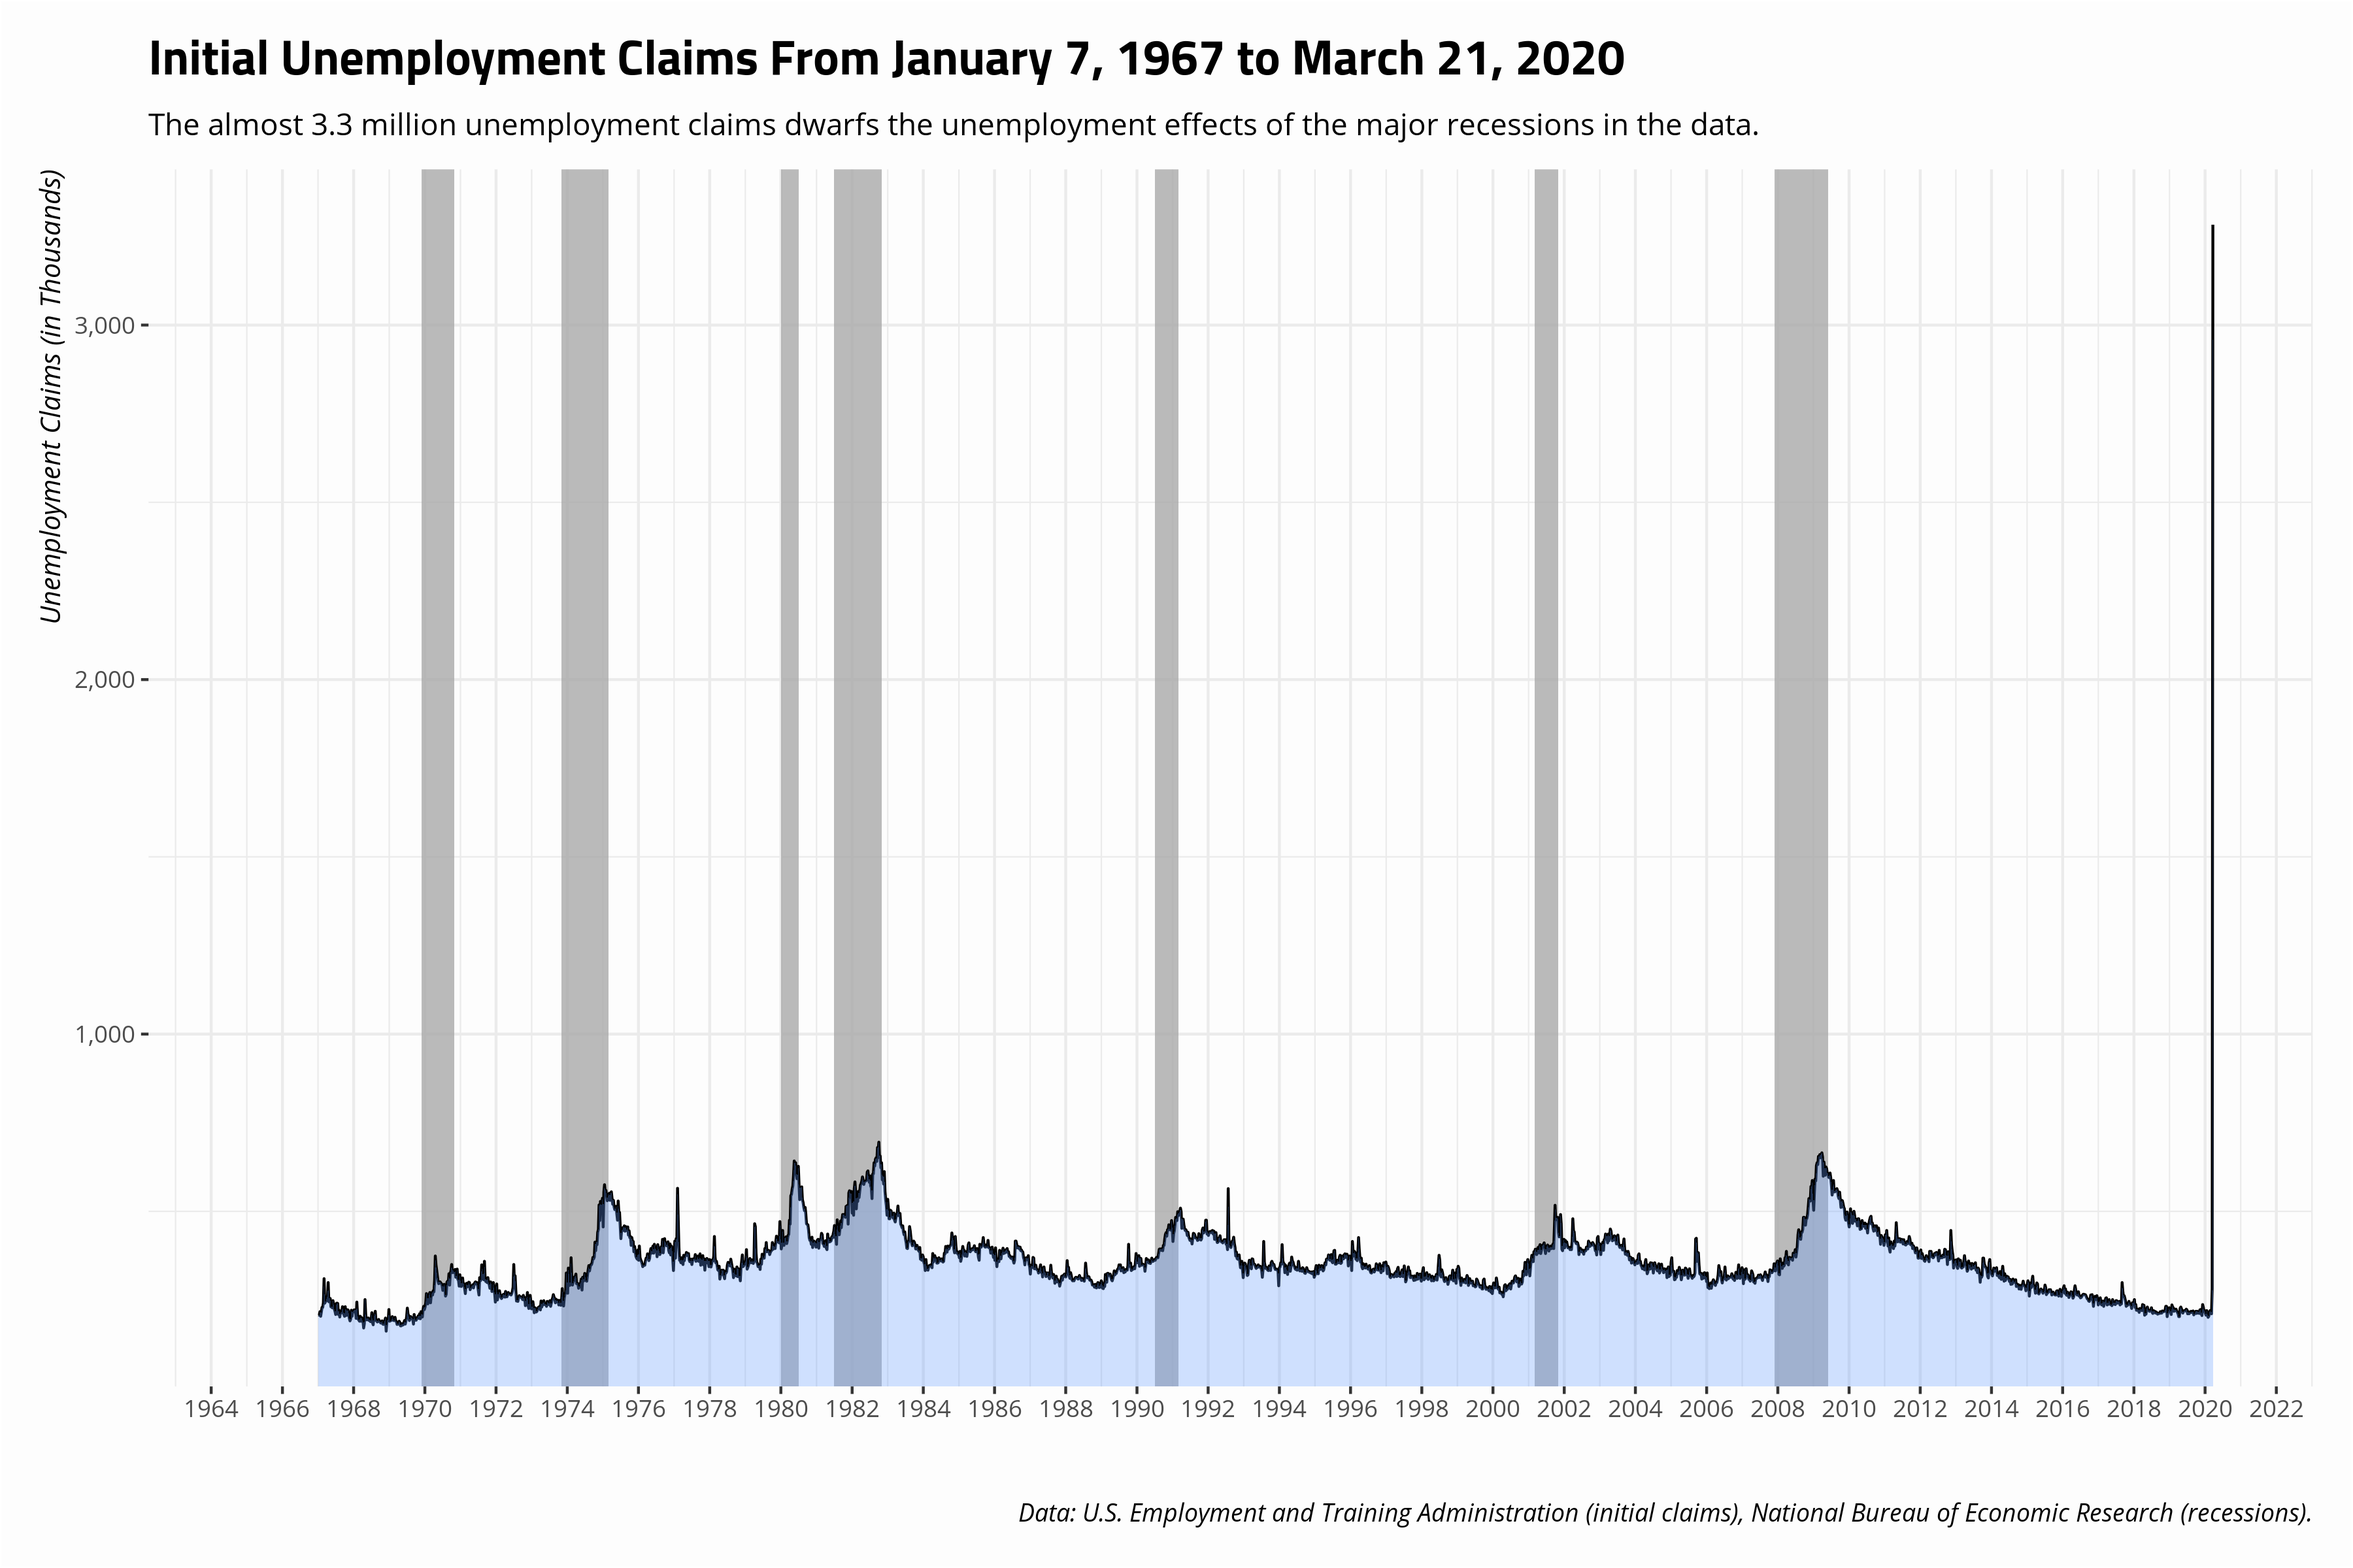
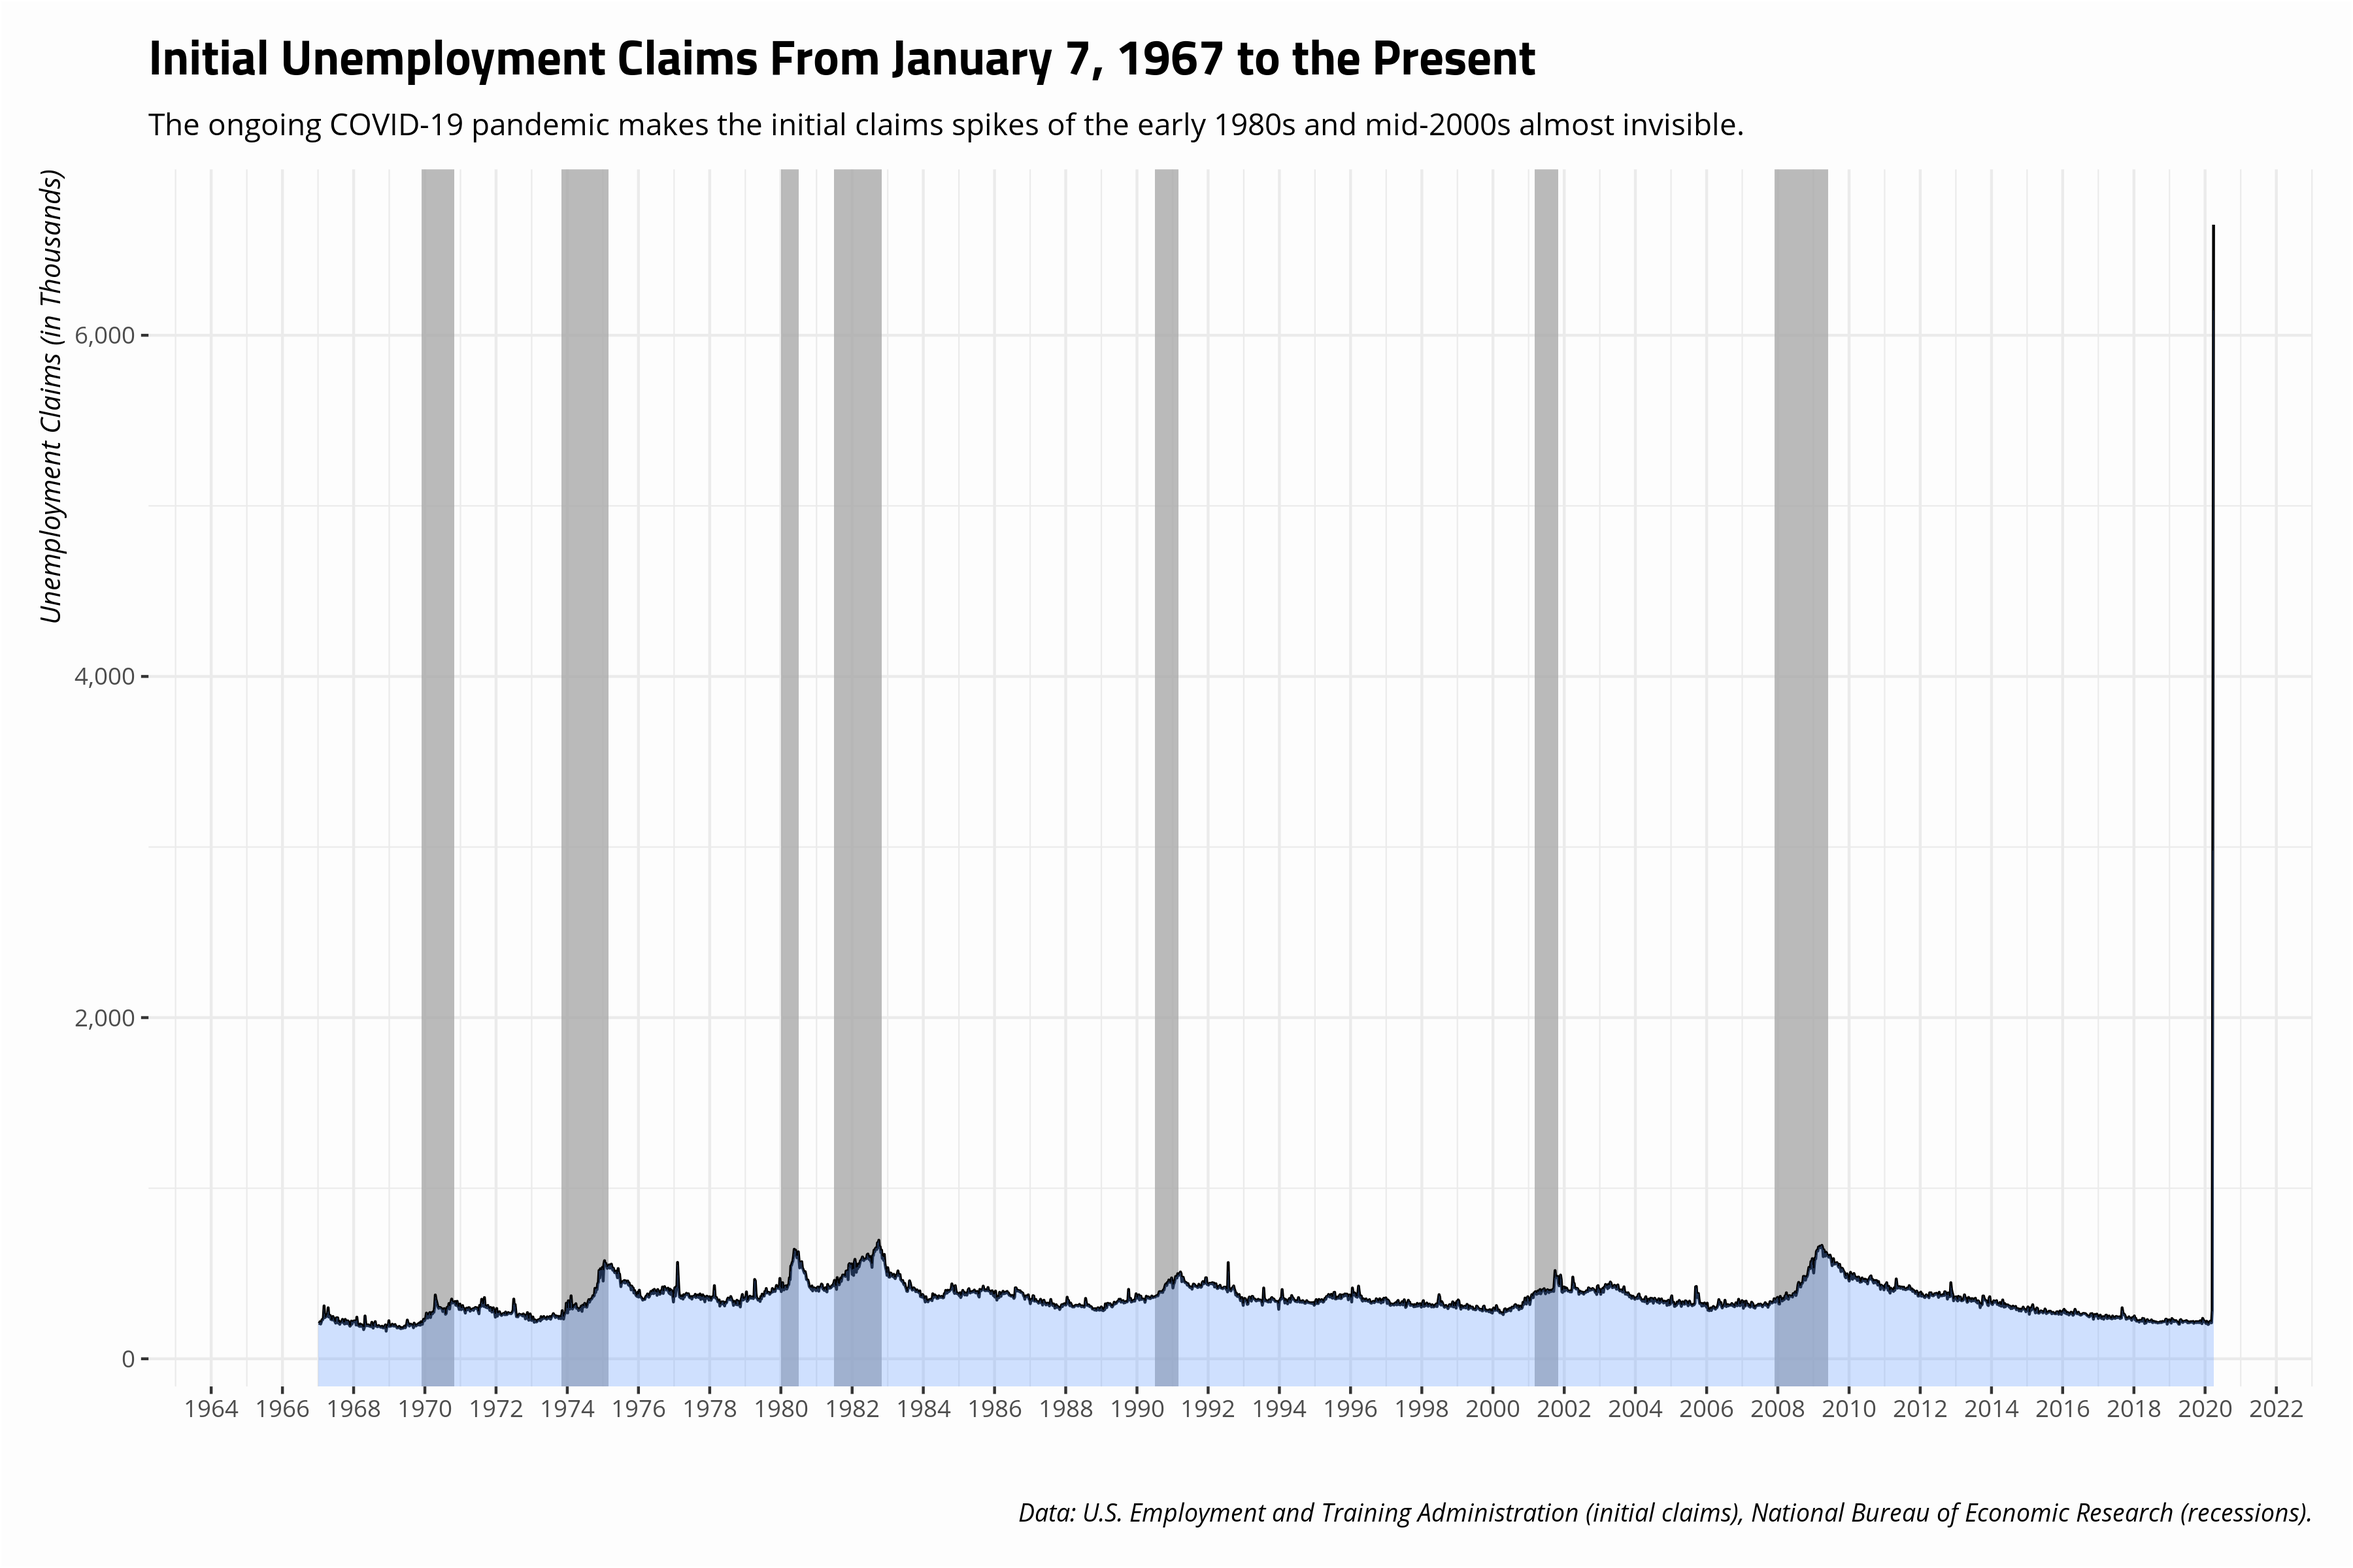
gulp

diff --git a/_posts/2020-03-26-the-covid19-initial-claims-spike-in-context-r.md b/_posts/2020-03-26-the-covid19-initial-claims-spike-in-context-r.md
@@ -19,6 +19,9 @@ image: "woman-mask-la-covid19.jpg"
 
 {% include image.html url="/images/woman-mask-la-covid19.jpg" caption="A woman walks wearing a mask to protect herself from the novel coronavirus (COVID-19) in front of a closed theater in Koreatown, Los Angeles, on March 21, 2020. (AFP, GETTY IMAGES)" width=400 align="right" %}
 
+
+*Last updated: April 02, 2020* 
+
 The U.S. Employment and Training Administration released its weekly update on initial unemployment claims, giving us the first glimpse of the economic implications of the COVID-19 pandemic beyond [the fluctuation we're observing in the stock market](http://svmiller.com/blog/2020/03/dow-jones-no-good-very-bad-day/). And... [yikes](https://www.cnn.com/2020/03/26/economy/unemployment-benefits-coronavirus/index.html).
 
 The data are grisly and some R code will illustrate that. First, here are the packages necessary to put this unemployment claims spike in context. `tidyverse` comes at the fore of my workflow. `stevemisc` is my toy R package, which incidentally has a data set on U.S. recessions (`recessions`) for added context. It should be no surprise that unemployment climbs during these periods. Finally, `fredr` interacts with the Federal Reserve Economic Data maintained by the research division of the Federal Reserve Bank of St. Louis. The API is the easiest and most flexible of any I've used and I wish the IMF's API were as simple. `lubridate` will help us play with dates.
@@ -42,7 +45,7 @@ Here's what the data looked like before today.
 
 ```r
 ICSA %>%
-  slice(-n()) %>%
+  filter(date <= ymd("2020-03-14")) %>%
   ggplot(.,aes(date, value/1000)) +
   theme_steve_web() + post_bg() +
   scale_x_date(date_breaks = "2 years",
@@ -68,7 +71,8 @@ Now, here's what the data look like as of today.
 
 ```r
 ICSA %>%
-#  slice(-n()) %>% # Commenting out just one line.
+  # change just one line
+  filter(date <= ymd("2020-03-21"))  %>% # Commenting out just one line.
   ggplot(.,aes(date, value/1000)) +
   theme_steve_web() + post_bg() +
   scale_x_date(date_breaks = "2 years",
@@ -86,7 +90,7 @@ ICSA %>%
        caption = "Data: U.S. Employment and Training Administration (initial claims), National Bureau of Economic Research (recessions).") 
 ```
 
-![plot of chunk initial-claims-data-1967-starting-with-covid19](/images/initial-claims-data-1967-starting-with-covid19-1.png)
+![plot of chunk initial-claims-data-1967-first-week-of-covid19](/images/initial-claims-data-1967-first-week-of-covid19-1.png)
 
 I'll come back and update this when the states roll out their updates, but it does have me thinking about this dire warning from the President of the Federal Reserve Bank of St. Louis.
 
@@ -98,7 +102,33 @@ Standardizing initial claims to the (growing) civilian labor force of the United
 
 Alas, I'll defer to the President of the FRED's division in St. Louis. He'll know more than me. I just know how to play with the data that his research division releases.
 
+### Update for April 2, 2020
 
+*Gulp.*
+
+
+```r
+ICSA %>%
+  # Omit the filter
+  #filter(date <= ymd("2020-03-21"))  %>% # Commenting out just one line.
+  ggplot(.,aes(date, value/1000)) +
+  theme_steve_web() + post_bg() +
+  scale_x_date(date_breaks = "2 years",
+               date_labels = "%Y",
+               limits = as.Date(c('1965-01-01','2020-04-01'))) +
+  geom_rect(data=filter(recessions,year(peak)>1966), inherit.aes=F, 
+            aes(xmin=peak, xmax=trough, ymin=-Inf, ymax=+Inf), fill='darkgray', alpha=0.8) +
+     geom_line() +
+    geom_ribbon(aes(ymin=-Inf, ymax=value/1000),
+              alpha=0.3, fill="#619CFF") +
+  scale_y_continuous(labels = scales::comma) +
+  labs(title = "Initial Unemployment Claims From January 7, 1967 to the Present",
+       subtitle = "The ongoing COVID-19 pandemic makes the initial claims spikes of the early 1980s and mid-2000s almost invisible.",
+       x = "", y = "Unemployment Claims (in Thousands)",
+       caption = "Data: U.S. Employment and Training Administration (initial claims), National Bureau of Economic Research (recessions).") 
+```
+
+![plot of chunk initial-claims-data-1967-starting-with-covid19](/images/initial-claims-data-1967-starting-with-covid19-1.png)
 
 
 
